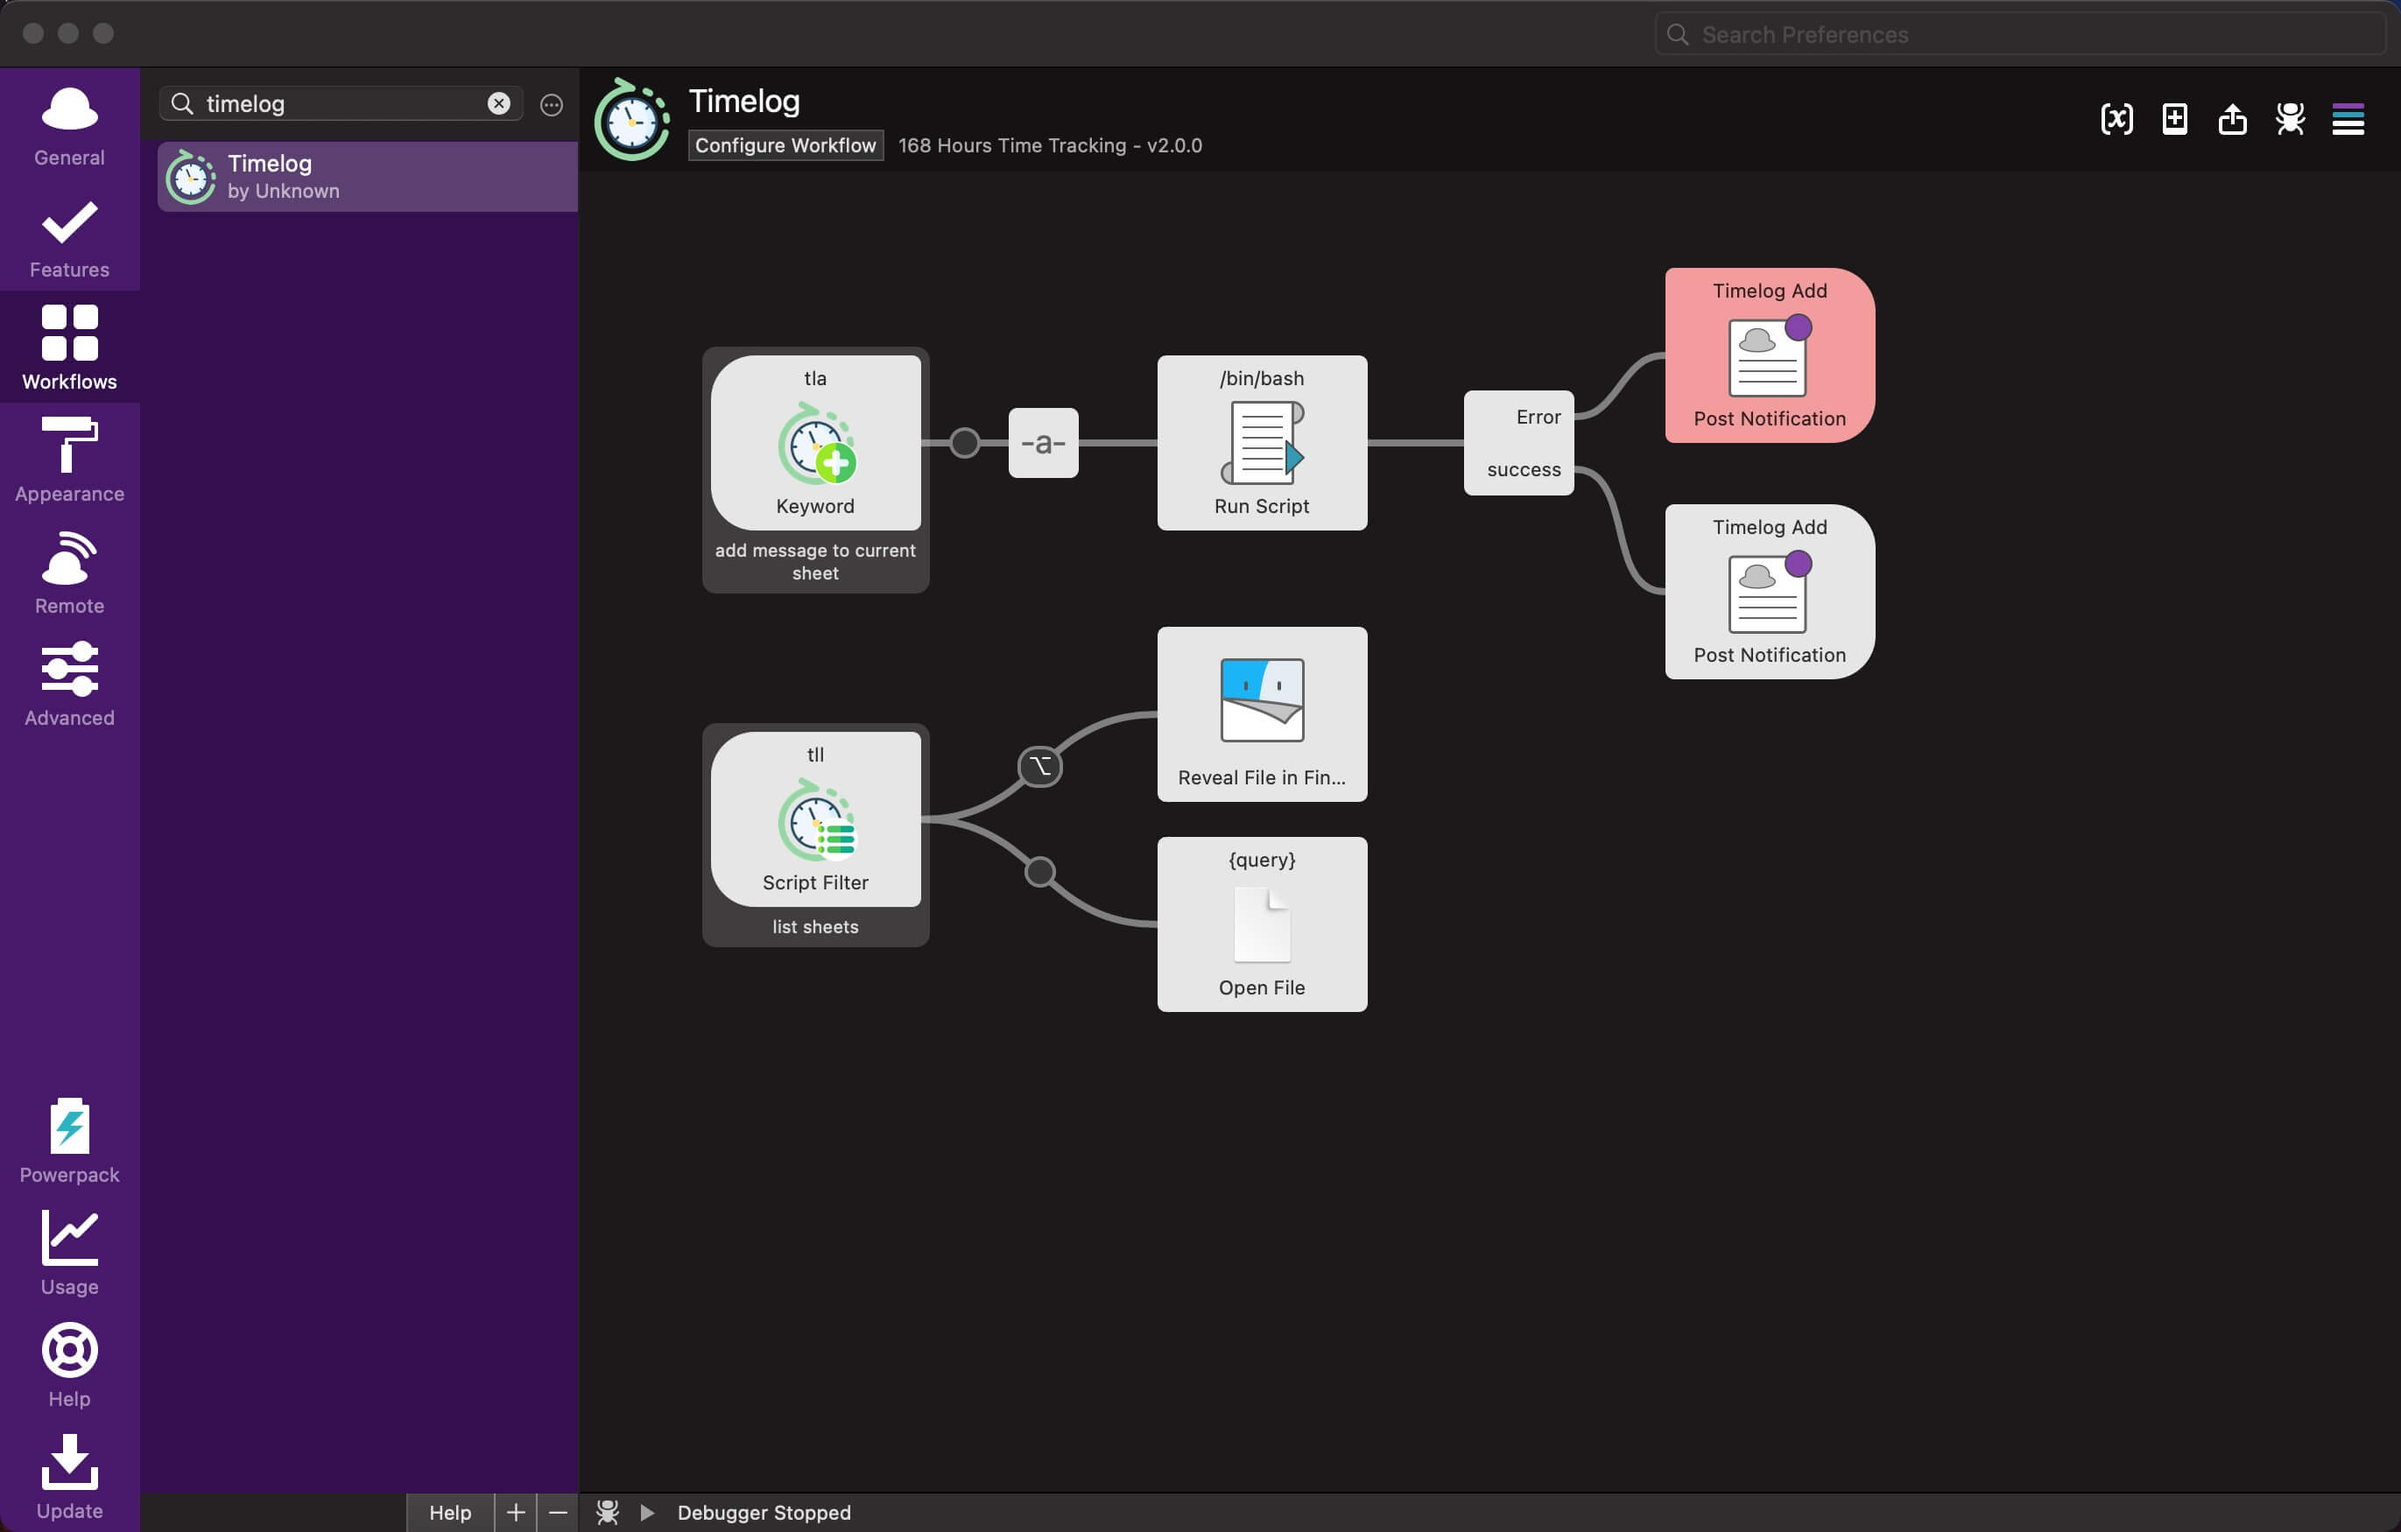
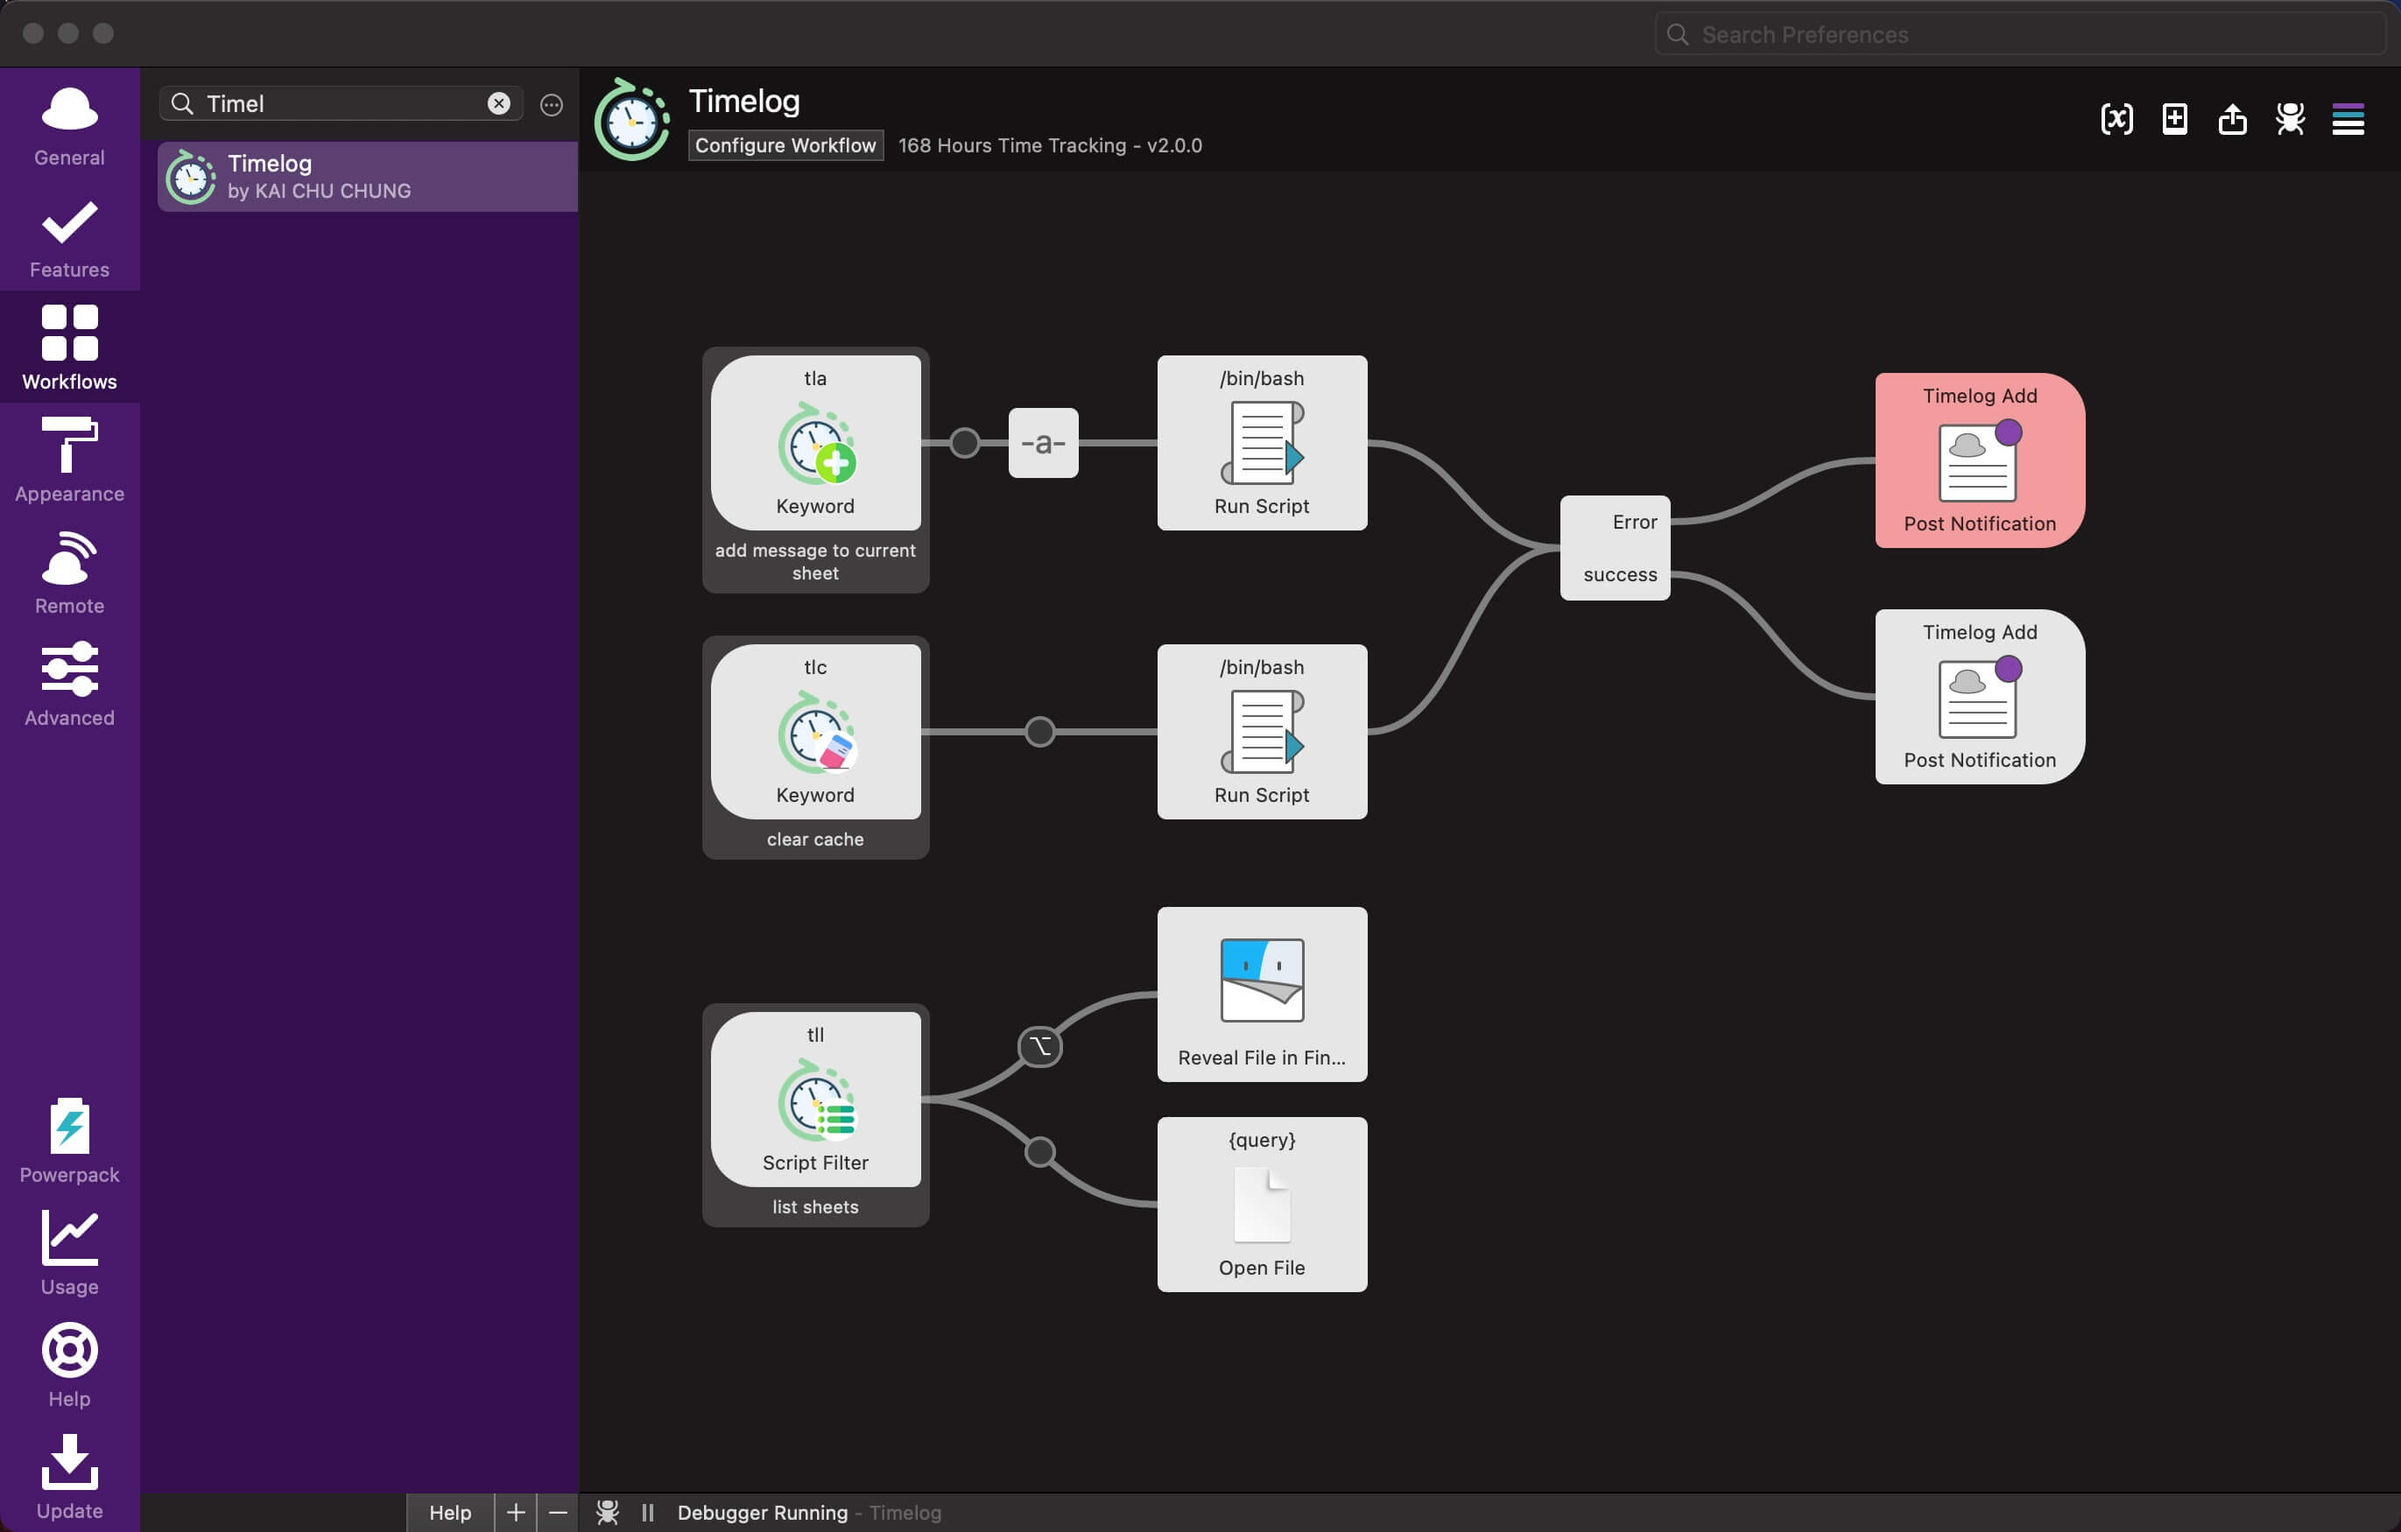
update README.md

diff --git a/cmd/add.go b/cmd/add.go
@@ -84,6 +84,9 @@ func runAddCmd(c *cobra.Command, args []string) {
 		Alignment: &excelize.Alignment{
 			WrapText: true,
 		},
+		Font: &excelize.Font{
+			Size: 14,
+		},
 	})
 	f.SetCellStyle("Sheet1", ra, ra, cs)
 
@@ -93,8 +96,7 @@ func runAddCmd(c *cobra.Command, args []string) {
 		f.SetCellValue("Sheet1", ra, args[0])
 	}
 
-	av.Var("file", filepath.Base(tt.FileName))
-	av.Var("msg", args[0])
+	av.Var("msg", fmt.Sprintf("add \"%s\" to \"%s\"", args[0], filepath.Base(tt.FileName)))
 	if err := av.Send(); err != nil {
 		wf.Fatalf("failed to send args to Alfred: %v", err)
 	}

diff --git a/README.md b/README.md
@@ -32,6 +32,7 @@ Make sure to download the latest released directly from the releases page. [Down
 
 - use `tla` to add message to track sheet
 - use `tll` to list tracking sheet
+- use `tlc` to clear cache
 
 ### Track sheet example
 ![](./screenshots/sheet.jpg)
